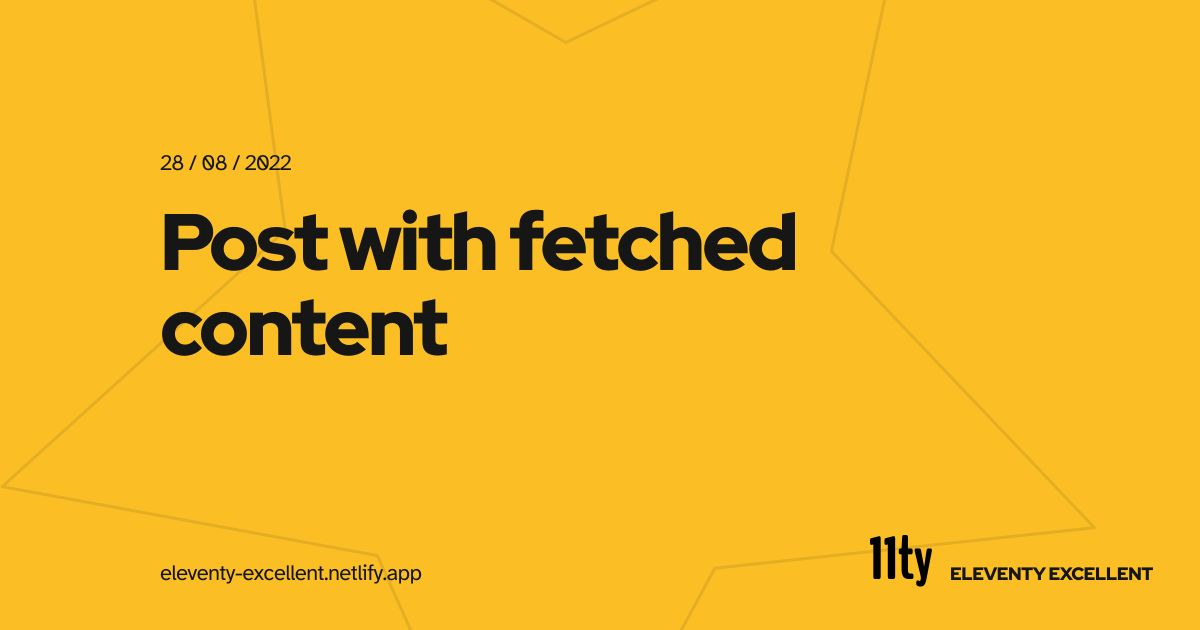
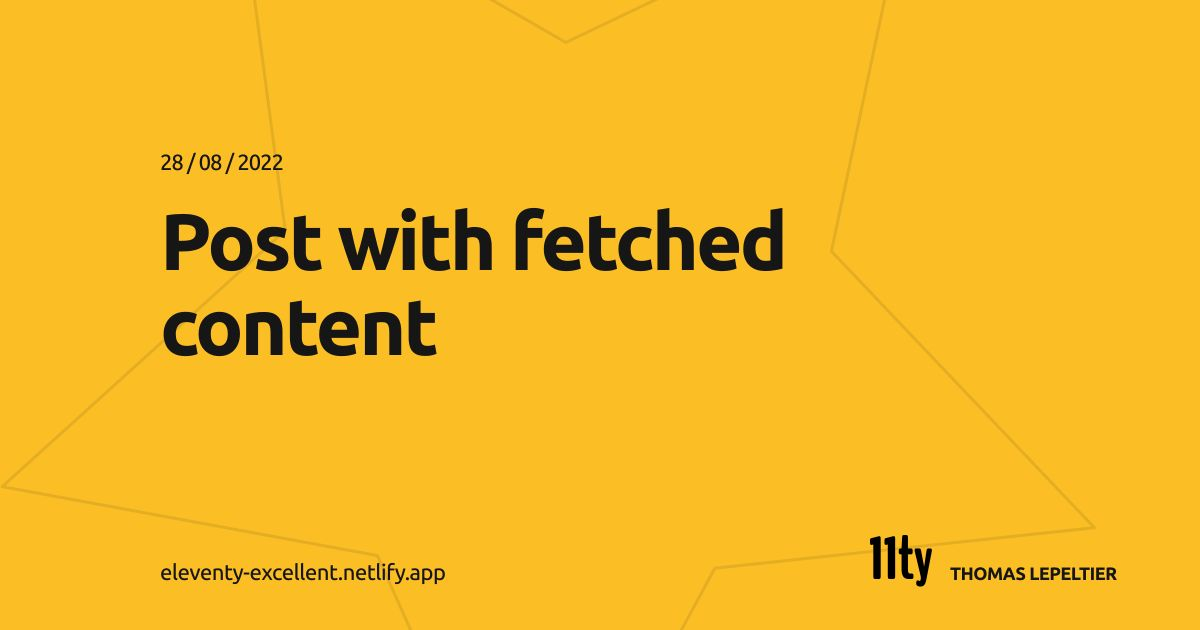
Add image optimization config and new book pages
Add contributions data and update navigation

Enable submenu in navigation and fix book tags

diff --git a/src/_data/contributions.js b/src/_data/contributions.js
@@ -1,0 +1,92 @@
+export default [
+  {
+    alt: "vegaux-veganisme-intersectionnel",
+    image: "/assets/images/livres-couvertures/vegaux-veganisme-intersectionnel.webp",
+    link: "https://www.leslibraires.ca/livres/v-egaux-vers-un-veganisme-intersectionnel-9782897942311.html"
+  },
+  {
+    alt: "sexe-en-69-questions",
+    image: "/assets/images/livres-couvertures/sexe-en-69-questions.webp",
+    link: "https://editions.scienceshumaines.com/le-sexe-en-69-questions_fr-803.htm"
+  },
+  {
+    alt: "animal-la-releve",
+    image: "/assets/images/livres-couvertures/animal-la-releve.webp",
+    link: "https://lareleveetlapeste.fr/produit/livre-journal-numero-5/"
+  },
+  {
+    alt: "pensee-vegane-experimentation",
+    image: "/assets/images/livres-couvertures/pensee-vegane-experimentation.webp",
+    link: "https://www.puf.com/content/La_pens%C3%A9e_v%C3%A9gane"
+  },
+  {
+    alt: "grands-penseurs-de-l-education",
+    image: "/assets/images/livres-couvertures/grands-penseurs-de-l-education.webp",
+    link: "https://editions.scienceshumaines.com/les-grands-penseurs-de-l-education_fr-674.htm"
+  },
+  {
+    alt: "philosophie-un-art-de-vivre",
+    image: "/assets/images/livres-couvertures/philosophie-un-art-de-vivre.webp",
+    link: "https://editions.scienceshumaines.com/la-philosophie-un-art-de-vivre_fr-667.htm"
+  },
+  {
+    alt: "grands_mythes",
+    image: "/assets/images/livres-couvertures/grands_mythes.webp",
+    link: "https://editions.scienceshumaines.com/les-grands-mythes_fr-649.htm"
+  },
+  {
+    alt: "religion",
+    image: "/assets/images/livres-couvertures/religion-sh-2.webp",
+    link: "https://editions.scienceshumaines.com/les-religions_fr-642.htm"
+  },
+  {
+    alt: "peter-singer-liberation-animale",
+    image: "/assets/images/livres-couvertures/peter-singer-liberation-animale.webp",
+    link: "http://www.pur-editions.fr/detail.php?idOuv=4355"
+  },
+  {
+    alt: "revolutions-animales-karine-lou-matignon",
+    image: "/assets/images/livres-couvertures/revolutions-animales-karine-lou-matignon.webp",
+    link: "http://www.editionslesliensquiliberent.fr/livre-R%C3%A9volutions_animales-494-1-1-0-1.html"
+  },
+  {
+    alt: "masculin-feminin-pluriel",
+    image: "/assets/images/livres-couvertures/masculin-feminin-pluriel.webp",
+    link: "https://editions.scienceshumaines.com/masculin-feminin-pluriel_fr-553.htm"
+  },
+  {
+    alt: "creationim-in-europe",
+    image: "/assets/images/livres-couvertures/creationim-in-europe.webp",
+    link: "https://jhupbooks.press.jhu.edu/content/creationism-europe"
+  },
+  {
+    alt: "sexe-hier-aujourd-hui",
+    image: "/assets/images/livres-couvertures/sexe-hier-aujourd-hui.webp",
+    link: "https://editions.scienceshumaines.com/le-sexe-d-hier-a-aujourd-hui_fr-504.htm"
+  },
+  {
+    alt: "philosophie-auteurs-themes",
+    image: "/assets/images/livres-couvertures/philosophie-auteurs-themes.webp",
+    link: "https://editions.scienceshumaines.com/philosophie-auteurs-et-themes_fr-469.htm"
+  },
+  {
+    alt: "cinq-siecles-pensee-francaise",
+    image: "/assets/images/livres-couvertures/cinq-siecles-pensee-francaise.webp",
+    link: "https://editions.scienceshumaines.com/cinq-siecles-de-pensee-francaise_fr-369.htm"
+  },
+  {
+    alt: "bibliotheque-des-sciences-humaines",
+    image: "/assets/images/livres-couvertures/bibliotheque-des-sciences-humaines.webp",
+    link: "https://editions.scienceshumaines.com/la-bibliotheque-ideale-des-sciences-humaines_fr-325.htm"
+  },
+  {
+    alt: "tout-et-parties",
+    image: "/assets/images/livres-couvertures/tout-et-parties.webp",
+    link: "http://www.sps-philoscience.org/activites/publication.php?id=4"
+  },
+  {
+    alt: "religion-sh",
+    image: "/assets/images/livres-couvertures/religion-sh.webp",
+    link: "https://www.scienceshumaines.com/index.php?lg=fr&id_parution=229"
+  }
+];

diff --git a/eleventy.config.js b/eleventy.config.js
@@ -59,6 +59,14 @@ export default async function (eleventyConfig) {
   eleventyConfig.addPlugin(plugins.eleventyImageTransformPlugin, {
     formats: ['webp', 'jpeg'],
     widths: ['auto'],
+    // AJOUT ICI :
+    sharpOptions: {
+      animated: false,
+    },
+    sharpWebpOptions: {
+      lossless: false,
+      quality: 80,
+    },
     htmlOptions: {
       imgAttributes: {
         loading: 'lazy',

diff --git a/src/_data/navigation.js b/src/_data/navigation.js
@@ -10,7 +10,7 @@ export default {
     },
     {
       text: 'Livres',
-      url: '#',
+      url: '/livres/',
       submenu: [
         {
           text: 'Livres personnels',
@@ -33,6 +33,10 @@ export default {
     {
       text: 'Articles',
       url: '/articles/'
+    },
+    {
+      text: 'Liens',
+      url: '/liens/'
     },
     {
       text: 'Contact',

diff --git a/tailwind.config.js b/tailwind.config.js
@@ -107,9 +107,9 @@ export default {
   blocklist: ['container'],
 
   // Prevents Tailwind from generating that wall of empty custom properties
-  experimental: {
-    optimizeUniversalDefaults: true
-  },
+  // experimental: {
+  //   optimizeUniversalDefaults: true
+  // },
 
   plugins: [
     // Generates custom property values from tailwind config

diff --git a/src/_data/meta.js b/src/_data/meta.js
@@ -73,7 +73,7 @@ export const navigation = {
   ariaBottom: 'Complementary',
   ariaPlatforms: 'Platforms',
   drawerNav: false,
-  subMenu: false
+  subMenu: true
 };
 export const themeSwitch = {
   title: 'Theme',

diff --git a/src/livres/autre-cosmos-cosmologies-alternatives.md b/src/livres/autre-cosmos-cosmologies-alternatives.md
@@ -1,0 +1,44 @@
+---
+title: "Un autre cosmos ?"
+date: 1234-01-01
+layout: "livre.njk"
+tags: ["livre","livres-dirigés"]
+description: "Une déconstruction en règle du spécisme et une promotion d'une éthique prenant en compte les intérêts de l'ensemble des êtres sensibles."
+imageUrl: "/assets/images/livres-couvertures/autre-cosmos-cosmologies-alternatives.webp"
+liens_achat: []
+critiques: "<<Cet ouvrage arrive à point nommé, c'est un livre lucide et constructeur>>, Science et pseudo-sciences."
+nombre_de_pages: "160"
+edition_nom: "Éditions Vuibert"
+edition_lien: "http://www.vuibert.fr/"
+prix: "19 €"
+description_auteur: "Thomas Lepeltier est essayiste spécialisé en histoire et philosophie des sciences ainsi qu'en éthique animale."
+lien_table_des_matieres: ""
+note: ""
+supplements: ""
+permalink: "/livres/autre-cosmos-cosmologies-alternatives/index.html"
+---
+
+L'univers est-il né d'un big bang ? La plupart des cosmologistes et astrophysiciens l'affirment. Ils précisent même que l'univers est apparu il y a 13,7 milliards d'années et qu'il est maintenant entré dans une phase d'expansion accélérée. Pourtant, il existe bel et bien d'autres scénarios de l'histoire du cosmos.
+
+Pour illustrer cette part d'indétermination de la cosmologie moderne, les auteurs de ce livre ont entrepris de présenter, d'une manière accessible aux non-spécialistes, ces alternatives au modèle standard du big bang. Les lecteurs découvriront ainsi que, sur un plan scientifique, plusieurs conceptions de l'univers sont de nos jours envisageables. De quoi relancer de fascinantes interrogations sur le cosmos.
+
+[**Thomas Lepeltier**](/bio) est historien et philosophe des sciences, chargé de cours à l'Université d'Oxford (Royaume-Uni), et auteur d'_[Univers parallèles](/livres/univers-paralleles)_ (Seuil, 2010).
+
+ **[Jean-Marc Bonnet-Bidaud](http://bonnetbidaud.free.fr/)** est astrophysicien au Commissariat à l'Énergie Atomique et aux énergies Alternatives (Saclay, France). Il a contribué à l'ouvrage _[Le big bang n'est pas une théorie comme les autres](http://www.lavillebrule.com/fr/le_big_bang_n_est_pas_une_theorie_comme_les_autres)_ (La Ville brûle, 2009).
+
+## Table des matières de *Un autre cosmos ?*
+
+**Présentation des auteurs.**
+
+**Remerciements.**
+
+---
+
+**Introduction.** Combien de modèles pour l'univers ? Le problème de la sous-détermination des théories, *par Thomas Lepeltier.*
+**Chapitre 1.** Quelle est la forme de l'univers ? Géométrie et cosmologie, *par Stéphane Fay.*
+**Chapitre 2.** Un univers statique ! L'hypothèse de la masse variable, *par Jayant Narlikar.*
+**Chapitre 3.** À la recherche des chaudrons du ciel. Comment fabriquer les éléments chimiques ?, *par Ludwik Celnikier.*
+**Chapitre 4.** La lumière diffuse de l'univers. Réflexions sur le rayonnement à 3 K, *par Jean-Marc Bonnet-Bidaud.*
+**Chapitre 5.** Univers invisible ou univers inhomogène ? Les problèmes de la matière et de l'énergie noires, *par Thomas Buchert.*
+**Chapitre 6.** Alternatives à l'inflation cosmologique. Repenser les débuts de l'expansion, *par Robert Brandenberger.*
+**Conclusion.** Une ou des visions du cosmos ? De l'importance des débats, *par Thomas Lepeltier et Jean-Marc Bonnet-Bidaud.*

diff --git a/src/livres/contributions.md b/src/livres/contributions.md
@@ -1,0 +1,35 @@
+[![vegaux-veganisme-intersectionnel](http://thomas.lepeltier.free.fr/livres-couvertures/vegaux-veganisme-intersectionnel.jpg)](https://www.leslibraires.ca/livres/v-egaux-vers-un-veganisme-intersectionnel-9782897942311.html)
+
+[![sexe-en-69-questions](http://thomas.lepeltier.free.fr/livres-couvertures/sexe-en-69-questions.jpg)](https://editions.scienceshumaines.com/le-sexe-en-69-questions_fr-803.htm)
+
+[![animal-la-releve](http://thomas.lepeltier.free.fr/livres-couvertures/animal-la-releve.jpg)](https://lareleveetlapeste.fr/produit/livre-journal-numero-5/)
+
+[![pensee-vegane-experimentation](http://thomas.lepeltier.free.fr/livres-couvertures/pensee-vegane-experimentation.png)](https://www.puf.com/content/La_pens%C3%A9e_v%C3%A9gane)
+
+[![grands-penseurs-de-l-education](http://thomas.lepeltier.free.fr/livres-couvertures/grands-penseurs-de-l-education.jpg)](https://editions.scienceshumaines.com/les-grands-penseurs-de-l-education_fr-674.htm)
+
+[![philosophie-un-art-de-vivre](http://thomas.lepeltier.free.fr/livres-couvertures/philosophie-un-art-de-vivre.jpg)](https://editions.scienceshumaines.com/la-philosophie-un-art-de-vivre_fr-667.htm)
+
+[![grands_mythes](http://thomas.lepeltier.free.fr/livres-couvertures/grands_mythes.jpg)](https://editions.scienceshumaines.com/les-grands-mythes_fr-649.htm)
+
+[![religion](http://thomas.lepeltier.free.fr/livres-couvertures/religion-sh-2.jpg)](https://editions.scienceshumaines.com/les-religions_fr-642.htm)
+
+[![peter-singer-liberation-animale](http://thomas.lepeltier.free.fr/livres-couvertures/peter-singer-liberation-animale.jpeg)](http://www.pur-editions.fr/detail.php?idOuv=4355)
+
+[![revolutions-animales-karine-lou-matignon](http://thomas.lepeltier.free.fr/livres-couvertures/revolutions-animales-karine-lou-matignon.jpg)](http://www.editionslesliensquiliberent.fr/livre-R%C3%A9volutions_animales-494-1-1-0-1.html)
+
+[![masculin-feminin-pluriel](http://thomas.lepeltier.free.fr/livres-couvertures/masculin-feminin-pluriel.jpg)](https://editions.scienceshumaines.com/masculin-feminin-pluriel_fr-553.htm)
+
+[![creationim-in-europe](http://thomas.lepeltier.free.fr/livres-couvertures/creationim-in-europe.jpg)](https://jhupbooks.press.jhu.edu/content/creationism-europe)
+
+[![sexe-hier-aujourd-hui](http://thomas.lepeltier.free.fr/livres-couvertures/sexe-hier-aujourd-hui.jpg)](https://editions.scienceshumaines.com/le-sexe-d-hier-a-aujourd-hui_fr-504.htm)
+
+[![philosophie-auteurs-themes](http://thomas.lepeltier.free.fr/livres-couvertures/philosophie-auteurs-themes.jpg)](https://editions.scienceshumaines.com/philosophie-auteurs-et-themes_fr-469.htm)
+
+[![cinq-siecles-pensee-francaise](http://thomas.lepeltier.free.fr/livres-couvertures/cinq-siecles-pensee-francaise.jpg)](https://editions.scienceshumaines.com/cinq-siecles-de-pensee-francaise_fr-369.htm)
+
+[![bibliotheque-des-sciences-humaines](http://thomas.lepeltier.free.fr/livres-couvertures/bibliotheque-des-sciences-humaines.gif)](https://editions.scienceshumaines.com/la-bibliotheque-ideale-des-sciences-humaines_fr-325.htm)
+
+[![tout-et-parties](http://thomas.lepeltier.free.fr/livres-couvertures/tout-et-parties.jpg)](http://www.sps-philoscience.org/activites/publication.php?id=4)
+
+[![religion-sh](http://thomas.lepeltier.free.fr/livres-couvertures/religion-sh.jpg)](https://www.scienceshumaines.com/index.php?lg=fr&id_parution=229)

diff --git a/src/livres/imposture-carnivores.md b/src/livres/imposture-carnivores.md
@@ -1,0 +1,35 @@
+---
+title: "L’imposture intellectuelle des carnivores"
+date: 2017-04-20
+layout: "livre.njk"
+tags: ["livre","livres-dirigés"]
+description: "Un livre coup de poing contre les défenseurs de la viande, du lait et des œufs"
+imageUrl: "/assets/images/livres-couvertures/imposture-intellectuelle.webp"
+liens_achat: []
+critiques: []
+nombre_de_pages: "160"
+edition_nom: ""
+edition_lien: ""
+prix: "16"
+description_auteur: "David Chauvet, docteur en droit privé et sciences criminelles, est un essayiste animaliste. Thomas Lepeltier, docteur en astrophysique, est un essayiste spécialisé en histoire et philosophie des sciences ainsi qu'en éthique animale."
+lien_table_des_matieres: "viande-de-culture/tdm.html"
+note: ""
+supplements: ""
+permalink: "/livres/imposture-intellectuelle/index.html"
+---
+
+## Un livre coup de poing contre les défenseurs de la viande, du lait et des œufs !
+
+Voici un livre qui accuse un grand nombre d'universitaires français d'avancer des arguments sans queue ni tête pour justifier le massacre quotidien de plusieurs millions d'animaux dans les abattoirs. Voici un livre qui s'en prend aussi aux nombreux journalistes qui portent un regard condescendant sur les végétaliens quand ces derniers demandent, par souci de justice, à ce que l'on arrête de consommer des produits d'origine animale. Enfin, voici un livre qui reproche également à une flopée d'experts de soutenir, en dépit de tout bon sens, qu'il faut continuer à tuer des animaux pour se nourrir. Bref, voici un livre qui dénonce la cruelle imposture des «< intellectuels >> carnivores.
+
+Points forts du livre :
+
+Réfute point par point les défenses et justifications de la consommation de viande, de lait et d'œufs.
+- Révèle l'imposture des «< intellectuels » français qui, au mépris de toute idée de justice, défendent cette consommation.
+-Présente clairement leurs erreurs de raisonnements et leur mauvaise foi quand ils critiquent les végétaliens s'opposant à cette consommation. Éditions Max Milo-160 pages - 16 €
+
+Argumentaire : Alors que la consommation de produits d'origine animale (viande, œufs, produits laitiers) est de plus en plus remise en cause de nos jours, des intellectuels français (universitaires, journalistes, experts) s'en prennent régulièrement aux végétaliens qui militent pour l'arrêt total de cette consommation. Citons, sans être exhaustif, Raphaël Enthoven, Luc Ferry, Élisabeth de Fontenay, Périco Légasse, Dominique Lestel, Michel Onfray, Jocelyne Porcher, Alain Prochiantz ou encore Francis Wolff. À travers des livres, des articles ou en intervenant dans des émissions de radio, ils critiquent, dénoncent et moquent les défenseurs des animaux. Ce n'est pas sans conséquences.
+Quand un film est tourné à l'intérieur d'un abattoir et diffusé dans les médias, la plupart des gens sont choqués. Puis, confrontés aux
+arguments des végétaliens, ces personnes cherchent des réponses. Quelle position adopter ? Que faire ? Que manger? Or voilà que ces intellectuels viennent leur dire que les végétaliens ont tort. À chaque fois, le principe de base de l'éthique qui avance que nous ne devons pas faire souffrir et tuer un être sensible, juste pour notre plaisir, est oublié ou dévoyé. À la place, ces intellectuels avancent des arguments qui défient la logique et encouragent la cruauté. Mais ils confortent une société qui, parce qu'elle ne veut pas changer ses habitudes culinaires, tue sans nécessité une quantité faramineuse d'animaux.
+
+Aussi ce livre prend-il le parti de les dénoncer haut et fort; non pas pour le plaisir de critiquer, mais dans l'espoir que cette mise au point contribue à faire cesser le grand massacre des animaux de rente et serve à lancer un débat constructif sur leur place dans la société.

diff --git a/src/posts/2022/test.md b/src/posts/2022/test.md
@@ -1,0 +1,8 @@
+---
+title: 'RESOLUTION MAX TEST'
+description: 'Eleventy Fetch ok and caches resources - at configurable intervals. In this example I am fetching my public repositories with a cache duration of 1 day.'
+date: 2022-08-28
+tags: ['fetch', 'territoire']
+---
+
+Peut-on créer un univers en laboratoire ? Pour surprenante qu’elle puisse paraître, l’idée n’est pas farfelue au regard des théories physiques actuelles. C’est du moins ce que tente de montrer la journaliste Zeeya Merali dans ce livre en retraçant ses tribulations, de sa première formulation au début des années 1980 à nos jours. Si vous donnez du crédit à ces théories, il vous faudra donc en conclure que la création d’un univers est plausible. Pour le comprendre, il faut bien sûr partir du modèle du big bang. Dans ce cadre, les théoriciens conçoivent que l’univers a pu naître d’une fluctuation du vide. Puis, en s’appuyant sur le mécanisme d’inflation éternelle qui fait désormais parti du modèle standard de la cosmologie, ils prévoient que des univers se créent en permanence. Le scénario dans lequel notre univers est unique et créé une fois pour toutes doit ainsi être remplacé par celui où nous vivons au sein d’un multivers. Mais la création d’univers ne s’arrête pas là. Les trous noirs, dont l’existence ne fait plus de doute dans la communauté scientifique, sont également des objets astronomiques au sein desquels des univers pourraient naître. Du coup, notre univers pourrait très bien provenir d’un trou noir appartenant à un autre univers. Il reste néanmoins à concevoir que l’on puisse créer des univers dans un laboratoire. Là encore, l’auteure nous raconte comment cette possibilité a été envisagée par des chercheurs. D’ailleurs, vous en avez peut-être eu écho lors de la mise en route du LHC, près de Genève, en 2008. À l’époque, les médias avaient relayé la crainte que cet accélérateur de particules en vienne à créer un trou noir qui finirait par engloutir la Terre. Les théoriciens avaient toutefois rassuré la population en affirmant que, s’ils étaient créés, ces micro-trous noirs s’évaporeraient très vite. Il n’y avait donc aucun risque. Mais, en analysant de plus près les phénomènes physiques en jeu, des chercheurs remarquèrent que, parmi les micro-trous noirs créés, certains pourraient donner naissance à des univers. Voilà comment cette idée de création d’univers en laboratoire a pris corps. Il y a bien sûr une part de spéculation dans cette idée. Mais, tout bien réfléchi, pas plus que dans d’autres théories en vogue. En tout cas, l’auteure conclut ce récit rondement mené en évoquant les problèmes éthiques que pose cette question de la création d’univers. Il se trouve que, créer un univers, c’est éventuellement être responsable de l’apparition d’êtres vivants. Or peut-on se le permettre sans connaître leurs conditions de vie ?

diff --git a/src/livres/revolution-antispeciste.md b/src/livres/revolution-antispeciste.md
@@ -2,9 +2,9 @@
 title: "Révolution antispéciste"
 date: 1234-01-01
 layout: "livre.njk"
-tags: ["livre"]
+tags: ["livre","livres-dirigés"]
 description: "Une déconstruction en règle du spécisme et une promotion d'une éthique prenant en compte les intérêts de l'ensemble des êtres sensibles."
-imageUrl: "/assets/images/livres-couvertures/antispecisme.webp"
+imageUrl: "/assets/images/livres-couvertures/revolution-antispeciste-couverture-2.webp"
 liens_achat: []
 critiques: []
 nombre_de_pages: ""

diff --git a/src/livres/big-bang-histoire-critique-d-une-idee.md b/src/livres/big-bang-histoire-critique-d-une-idee.md
@@ -2,7 +2,7 @@
 title: "Big Bang : Histoire critique d'une idée"
 date: 2021-01-01
 layout: "livre.njk"
-tags: ["livre"]
+tags: ["livre", "mes-livres"]
 description: "Une histoire critique du modèle cosmologique du big bang et de ses difficultés croissantes."
 imageUrl: "/assets/images/livres-couvertures/big-bang.webp"
 liens_achat: ["https://amzn.to/3jhq2gG", "https://www.placedeslibraires.fr/livre/9782070463916-big-bang-un-modele-en-crise-jean-marc-bonnet-bidaud/"]

diff --git a/src/livres/darwin-heretique-l-eternel-retour-du-creationnisme.md b/src/livres/darwin-heretique-l-eternel-retour-du-creationnisme.md
@@ -2,7 +2,7 @@
 title: "Darwin hérétique : L'éternel retour du créationnisme"
 date: 2007-01-01
 layout: "livre.njk"
-tags: ["livre"]
+tags: ["livre", "mes-livres"]
 description: "Un panorama précis et compréhensible des enjeux religieux qui ont traversé l'histoire de l'évolutionnisme, du créationnisme et du dessein intelligent."
 imageUrl: "/assets/images/livres-couvertures/darwin-heretique.webp"
 liens_achat: ["https://www.amazon.fr/gp/product/2020882132"]